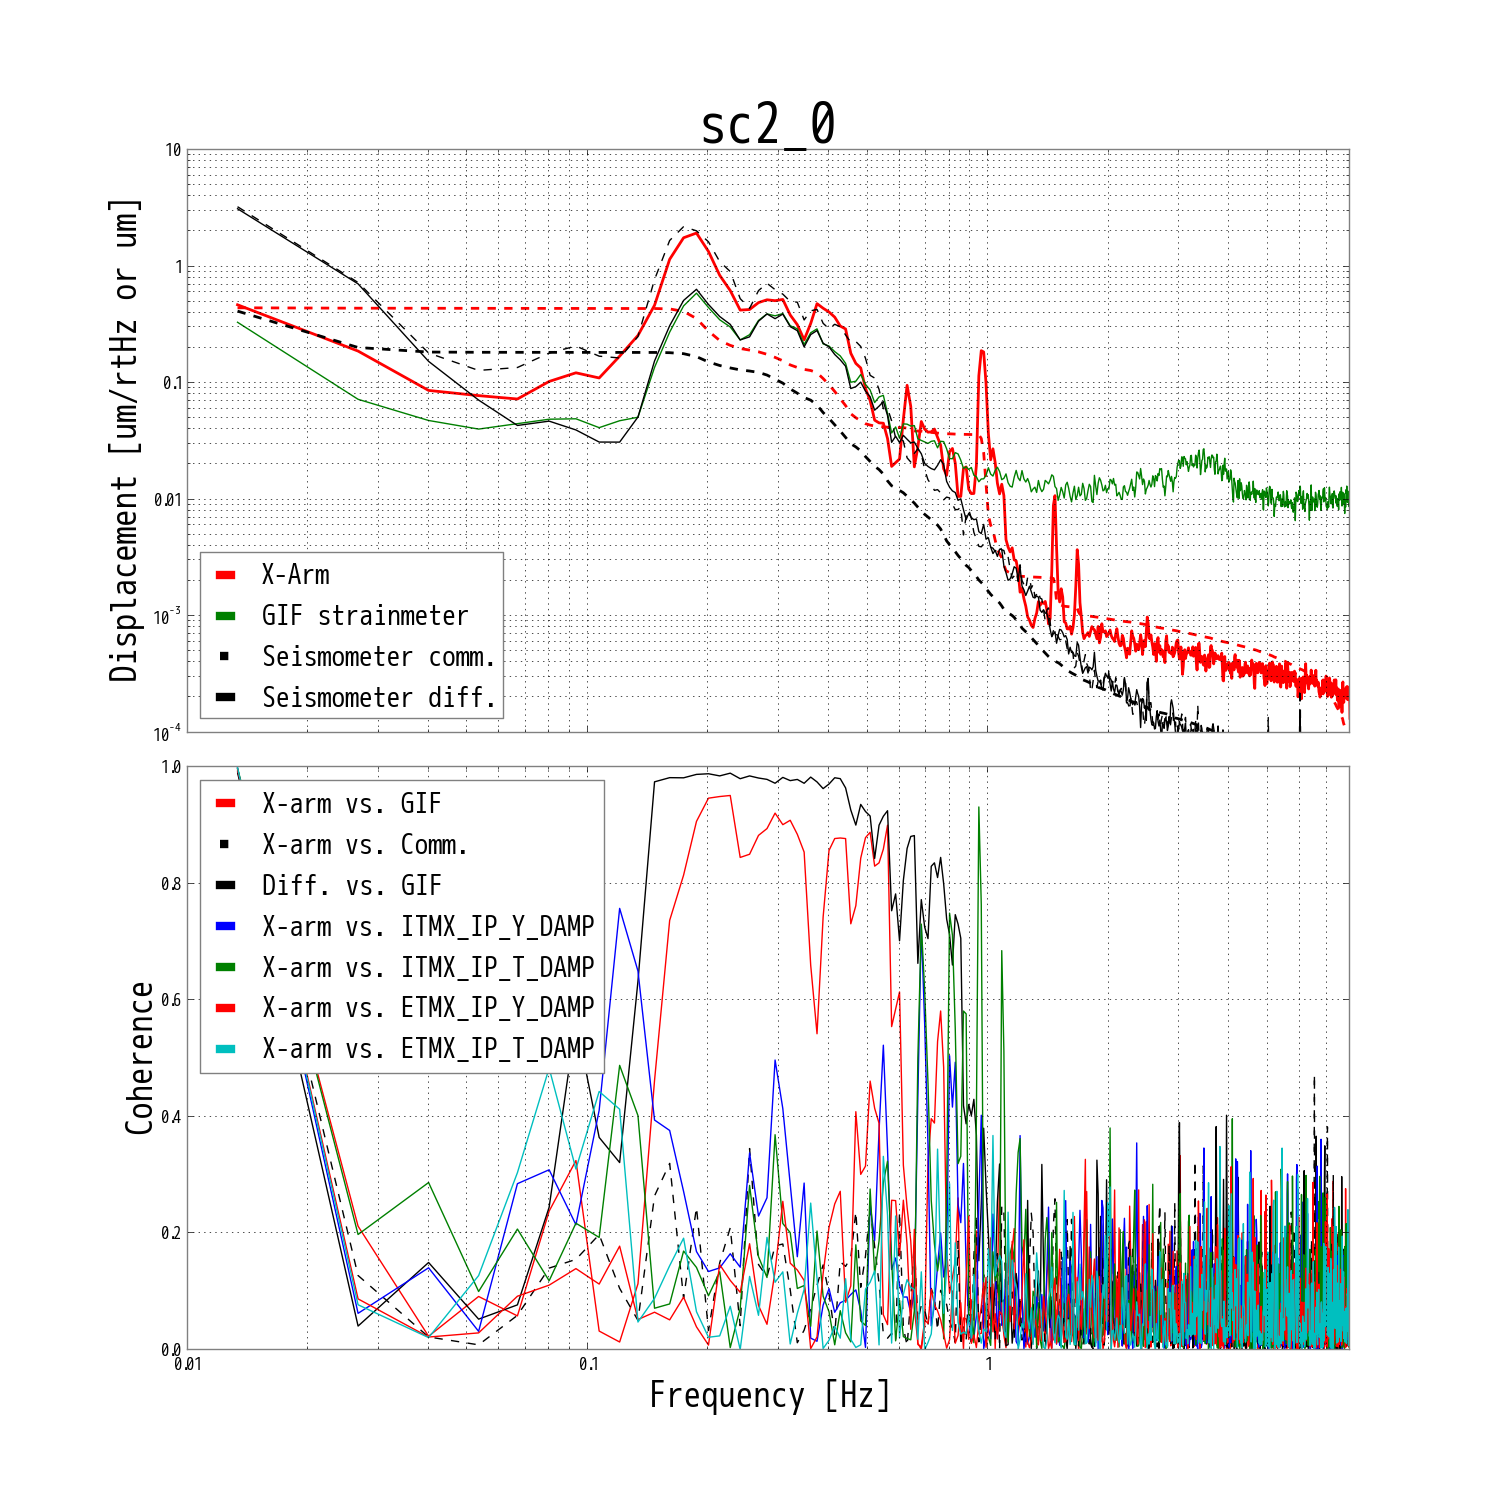
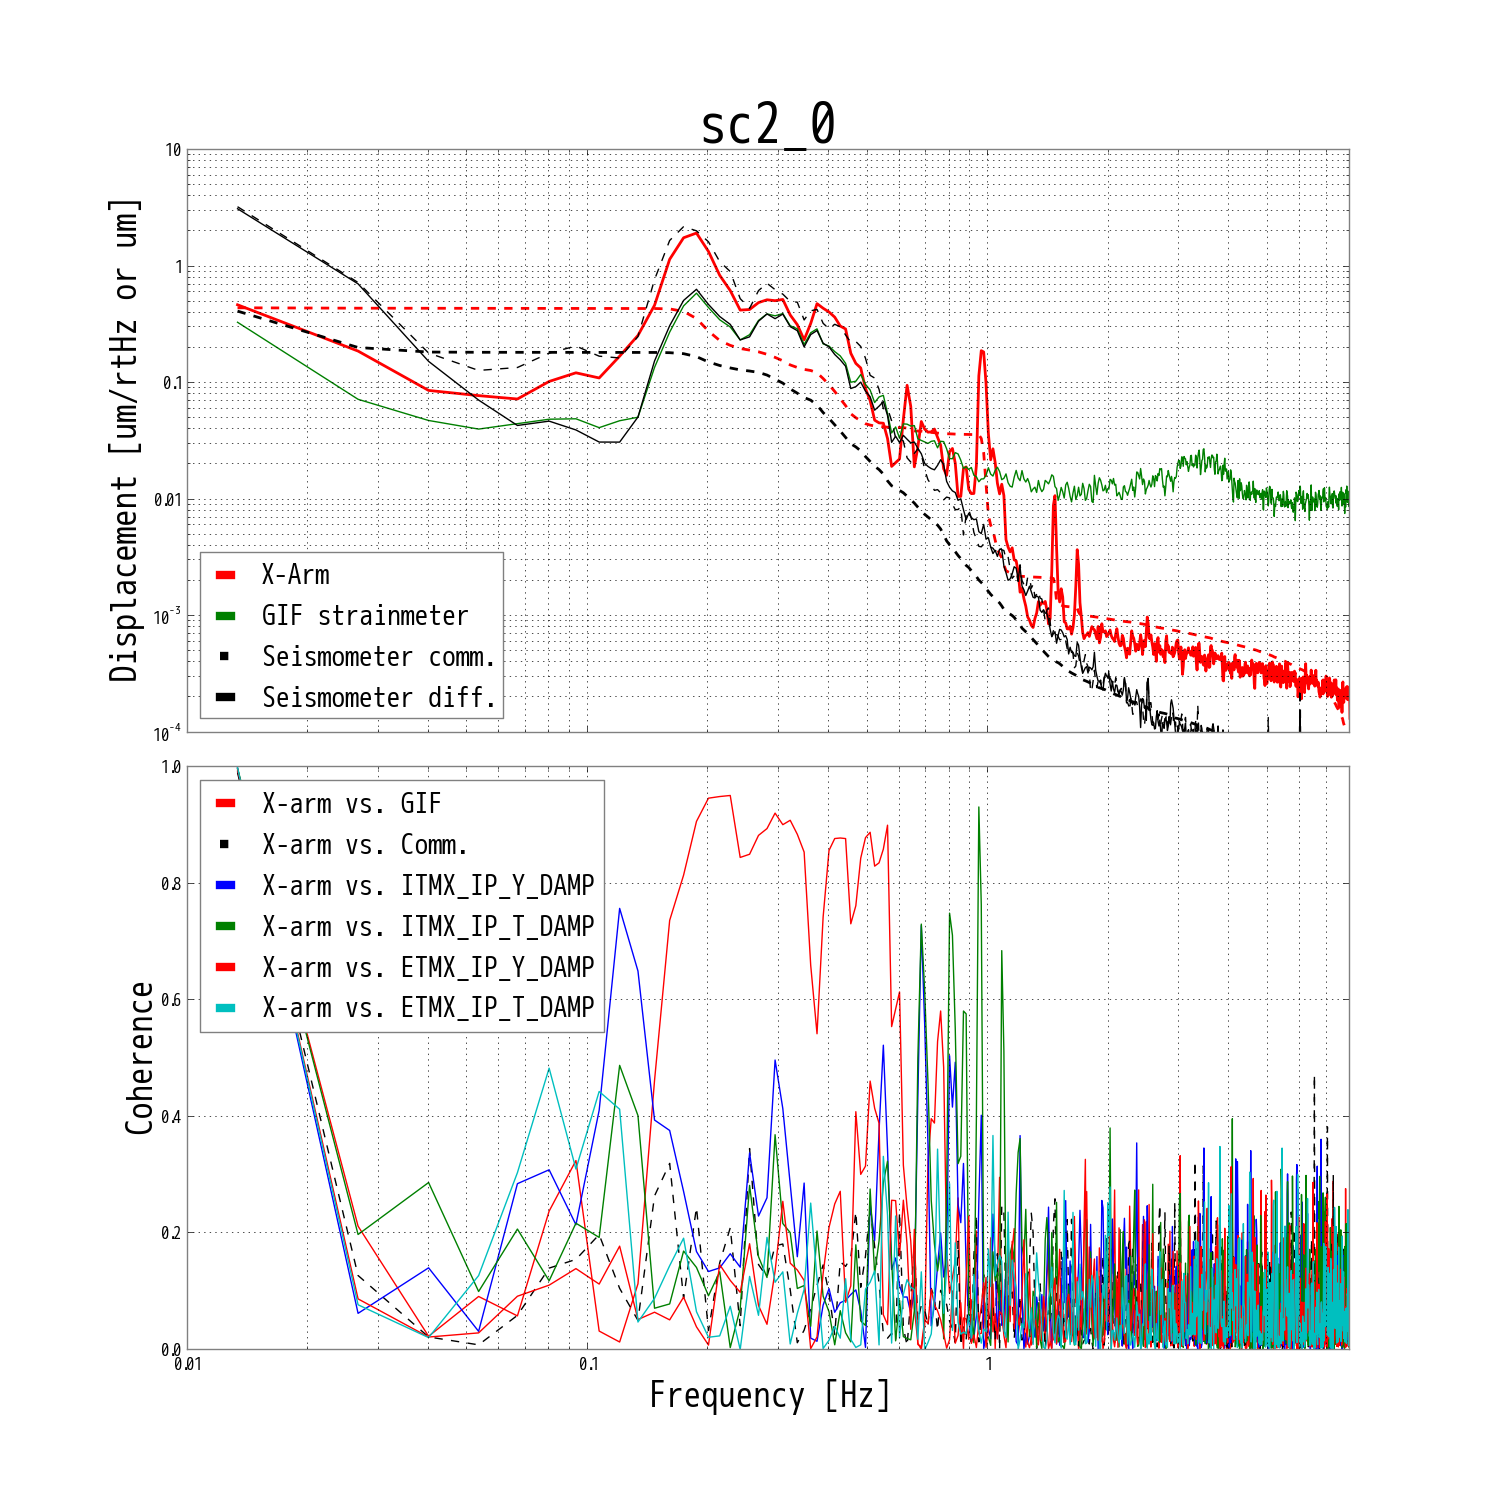
Update

diff --git a/alcs/sensor_correction_trial/main_sc2.py b/alcs/sensor_correction_trial/main_sc2.py
@@ -1,0 +1,83 @@
+import matplotlib.pyplot as plt
+from gwpy.timeseries import TimeSeries,TimeSeriesDict
+import numpy as np
+from Kozapy.utils import filelist
+from gwpy.time import tconvert
+channels = [
+    'K1:GIF-X_STRAIN_OUT16',
+    'K1:VIS-ETMX_GIF_ARM_L_OUT16',
+    'K1:CAL-CS_PROC_XARM_FILT_AOM_OUT16',
+    'K1:CAL-CS_PROC_XARM_FILT_TM_OUT16',
+    'K1:PEM-SEIS_EXV_GND_X_OUT16',
+    'K1:PEM-SEIS_IXV_GND_X_OUT16',
+    'K1:VIS-ETMX_BF_DAMP_Y_OUT16',
+    'K1:VIS-ITMX_BF_DAMP_Y_OUT16',
+    'K1:VIS-ETMX_IP_DAMP_Y_OUT16',
+    'K1:VIS-ITMX_IP_DAMP_Y_OUT16',
+    'K1:VIS-ETMX_BF_DAMP_T_OUT16',
+    'K1:VIS-ITMX_BF_DAMP_T_OUT16',
+    'K1:VIS-ETMX_IP_DAMP_T_OUT16',
+    'K1:VIS-ITMX_IP_DAMP_T_OUT16',
+    ]
+
+# --------------------------------------------------
+
+start0 = tconvert('Sep 17 2019 05:26:00 JST')  
+end0   = tconvert('Sep 17 2019 05:36:00 JST')
+start1 = tconvert('Sep 17 2019 05:39:00 JST')  
+end1   = tconvert('Sep 17 2019 05:49:00 JST')
+
+# setting
+tlen = int(end1) - int(start1)
+ave = 8
+fftlen = tlen/ave
+#fftlen = 2**6
+ovlp = fftlen/2.0
+
+# Timeseries
+def huge(start,end):
+    source = filelist(start,end,trend='full',place='kashiwa')    
+    data = TimeSeriesDict.read(source,channels,start=start,end=end,nproc=4)
+    c = 299792458 # m/sec
+    lam = 1064e-9 # m
+    gif = data['K1:VIS-ETMX_GIF_ARM_L_OUT16']
+    xarm = data['K1:CAL-CS_PROC_XARM_FILT_AOM_OUT16']*3000.0/(c/lam)*1e6 # [um]
+    etmx_seis = data['K1:PEM-SEIS_EXV_GND_X_OUT16']
+    itmx_seis = data['K1:PEM-SEIS_IXV_GND_X_OUT16']
+    diff_seis = etmx_seis - itmx_seis
+    comm_seis = etmx_seis + itmx_seis
+
+    # Coherence
+    coh_gif2xarm = gif.coherence(xarm,fftlength=fftlen,overlap=ovlp)
+    coh_gif2seis = gif.coherence(diff_seis,fftlength=fftlen,overlap=ovlp)
+    coh_xarm2seiscomm = xarm.coherence(comm_seis,fftlength=fftlen,overlap=ovlp)
+    
+    # ASD
+    gif = gif.asd(fftlength=fftlen,overlap=ovlp)
+    xarm = xarm.asd(fftlength=fftlen,overlap=ovlp)
+    diff_seis = diff_seis.asd(fftlength=fftlen,overlap=ovlp)
+    comm_seis = comm_seis.asd(fftlength=fftlen,overlap=ovlp)
+    w = 2.0*np.pi*(diff_seis.frequencies.value)
+    diff_seis = diff_seis/w
+    comm_seis = comm_seis/w
+    return xarm
+    
+xarm0 = huge(start0,end0)
+xarm1 = huge(start1,end1)
+# plot
+title = 'sc2'
+fig, ax1 = plt.subplots(1,1,figsize=(10,10),sharex=True)
+plt.subplots_adjust(hspace=0.06)
+ax1.set_title(title,fontsize=40)
+ax1.loglog(xarm0,label='OFF',color='k',linewidth=2)
+ax1.loglog(xarm0.rms(),color='k',linewidth=2,linestyle='--')
+ax1.loglog(xarm1,label='ON',color='r',linewidth=2)
+ax1.loglog(xarm1.rms(),color='r',linewidth=2,linestyle='--')
+ax1.set_ylabel('Displacement [um/rtHz or um]',fontsize=25)
+ax1.legend(fontsize=20,loc='lower left')
+ax1.set_ylim(1e-4,10)
+ax1.set_xlabel('Frequency [Hz]')
+#ax1.set_ylim(0,1)
+ax1.set_xlim(1e-2,8)
+plt.savefig('./{0}.png'.format(title))
+plt.close()

diff --git a/alcs/sensor_correction_trial/main.py b/alcs/sensor_correction_trial/main.py
@@ -205,7 +205,7 @@ ax1.set_ylim(1e-4,10)
 ax2.set_ylabel('Coherence',fontsize=25)
 ax2.semilogx(coh_gif2xarm,label='X-arm vs. GIF',color='r',linewidth=1)
 ax2.semilogx(coh_xarm2seiscomm,label='X-arm vs. Comm.',color='k',linewidth=1,linestyle='--')
-ax2.semilogx(coh_gif2seis,label='Diff. vs. GIF',color='k',linewidth=1)
+#ax2.semilogx(coh_gif2seis,label='Diff. vs. GIF',color='k',linewidth=1)
 ax2.semilogx(coh_xarm2itmxipy,label='X-arm vs. ITMX_IP_Y_DAMP',linewidth=1)
 ax2.semilogx(coh_xarm2itmxipt,label='X-arm vs. ITMX_IP_T_DAMP',linewidth=1)
 ax2.semilogx(coh_xarm2etmxipy,label='X-arm vs. ETMX_IP_Y_DAMP',linewidth=1)
